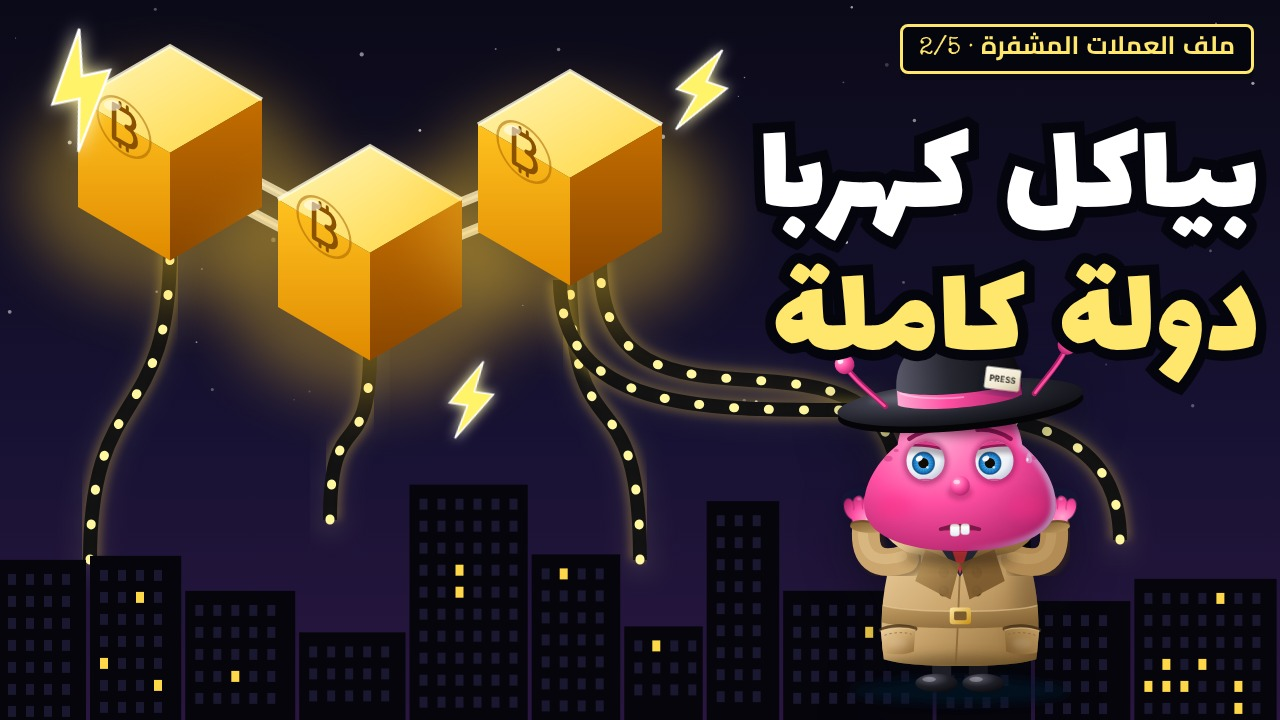
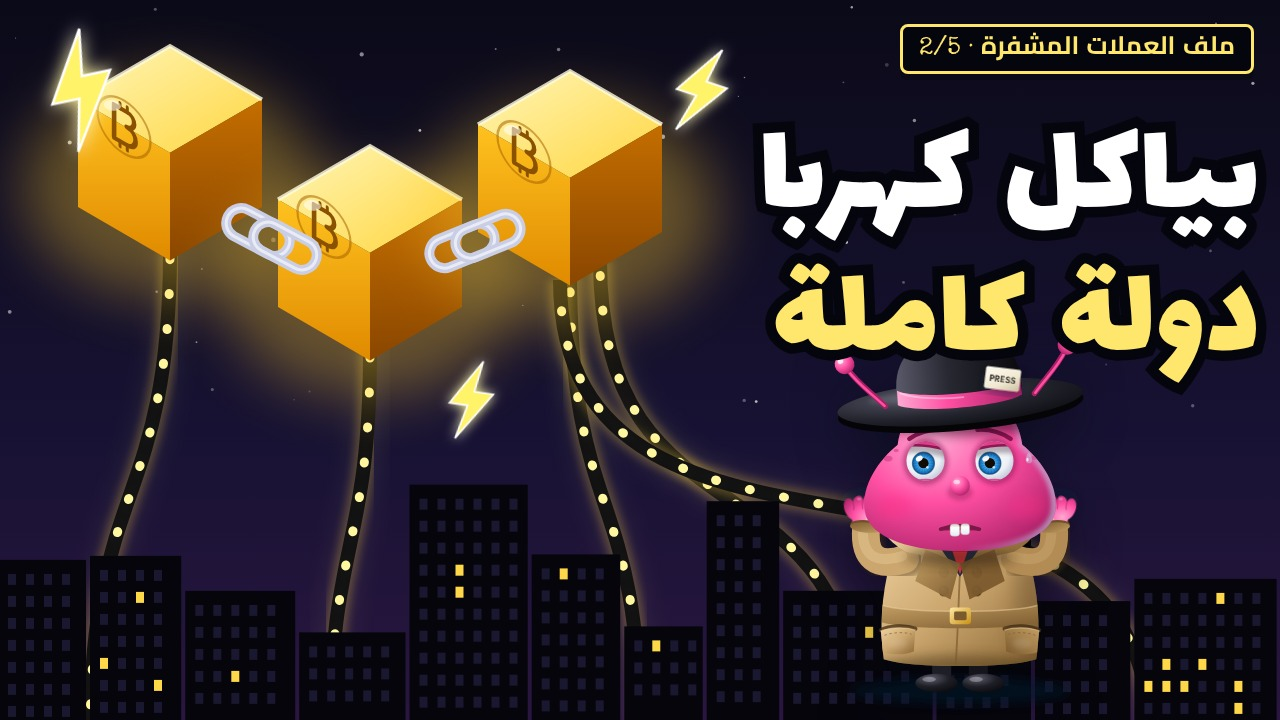
Thumbnails: polish the blackout and landfill scenes, the palm-tower pose; document illustrated thumbnail specs
Claude-Session: https://claude.ai/code/session_01Ey97noZGjdLSTjFu7eY9Zo

diff --git a/video/youtube/scenes.js b/video/youtube/scenes.js
@@ -84,10 +84,10 @@ export const SCENES = {
       return `<path d="${d}" fill="none" stroke="#ffcc33" stroke-width="22" opacity=".25" filter="url(#b4)"/><path d="${d}" fill="none" stroke="#05050a" stroke-width="14"/><path d="${d}" fill="none" stroke="#fff6a0" stroke-width="9" stroke-linecap="round" stroke-dasharray="1 34" filter="url(#glow)"/>`; };
     const bolt = (x, y, s, r) => `<path transform="translate(${x} ${y}) rotate(${r}) scale(${s})" d="M20 -100L-50 14H-4L-24 100L56 -22H8Z" fill="#fff36b" stroke="#fff" stroke-width="4" filter="url(#glow)"/>`;
     const back = `<rect width="1280" height="720" fill="url(#night)"/>${Array.from({ length: 60 }, () => `<circle cx="${f(R() * 1280)}" cy="${f(R() * 420)}" r="${f(R() * 1.8 + 0.5)}" fill="#fff" opacity="${f(R() * 0.6 + 0.2)}"/>`).join("")}
-      ${wire(170, 250, 90, 560, 180)}${wire(370, 350, 330, 520, 120)}${wire(570, 270, 640, 560, 200)}${wire(600, 260, 900, 500, 220)}${wire(560, 280, 1120, 540, 260)}
+      ${wire(170, 250, 90, 740, 260)}${wire(370, 350, 330, 740, 200)}${wire(570, 270, 640, 740, 260)}${wire(600, 260, 860, 740, 300)}${wire(560, 280, 1150, 740, 360)}
       ${city}${wins}
-      ${link(270, 205, 28)}${link(470, 215, -22)}
       ${blocks.map(([x, y]) => cube(x, y, 92)).join("")}
+      ${link(258, 232, 28)}${link(285, 246, 28)}${link(462, 246, -22)}${link(488, 236, -22)}
       ${bolt(80, 90, 0.6, -12)}${bolt(700, 90, 0.45, 18)}${bolt(470, 400, 0.4, 8)}`;
     return { defs, back };
   },
@@ -116,7 +116,7 @@ export const SCENES = {
     const back = `<rect width="1280" height="720" fill="url(#dusk)"/><circle cx="380" cy="430" r="90" fill="#fff0b0" opacity=".6" filter="url(#b30)"/>
       ${gull(300, 120, 1.2)}${gull(380, 90, 0.8)}${gull(700, 150, 1)}${gull(240, 200, 0.7)}
       <path d="${hill}" fill="url(#hill)"/>${trash}
-      <circle cx="${D.x}" cy="${D.y}" r="260" fill="url(#treas)"/>${rays(D.x, D.y, 14, "#fff2a8", 0.18, 420, 0.1)}
+      <clipPath id="up3"><rect width="1280" height="${D.y + 20}"/></clipPath><g clip-path="url(#up3)">${rays(D.x, D.y, 14, "#fff2a8", 0.22, 520, 0.1)}</g><circle cx="${D.x}" cy="${D.y}" r="230" fill="url(#treas)"/>
       <g transform="translate(${D.x} ${D.y}) rotate(-18)" filter="url(#sh)"><rect x="-96" y="-62" width="192" height="124" rx="12" fill="url(#drv)"/><circle cx="-14" cy="-4" r="44" fill="#d9dfee" stroke="#8f96b8" stroke-width="4"/><circle cx="-14" cy="-4" r="9" fill="#8f96b8"/><path d="M52 44L14 12" stroke="#4d5478" stroke-width="9" stroke-linecap="round"/><rect x="48" y="30" width="30" height="16" rx="4" fill="#58d68d"/></g>
       ${coin(560, 380, 34, -20)}${coin(735, 400, 30, 22)}${coin(690, 330, 24, 8)}`;
     return { defs, back };

diff --git a/video/README.md b/video/README.md
@@ -504,3 +504,15 @@ lists its sources by hand in `youtube.sources`.
 A thumbnail spec is a tag, a two-line headline (`[[words]]` in yellow), an
 optional line under it, the host's `emote` and `gesture`, and `icons`: any of
 the boards' icons, placed in 1280 x 720 units.
+
+An illustrated thumbnail names `"page": "scene.html"` and a `scene` from
+`youtube/scenes.js` (a drawing of the episode's strongest image, tuned by
+`opts`). The host is placed with `host` (or `hosts`, several): `emote`,
+`gesture`, `x` (centre of his 1200 box) and `y` (its top), `size`, `rot`,
+`look`, an optional CSS `mask` or `clip`, and `layer: "top"` to draw him over
+the scene's front (a cart he sits in, a grave he hides behind). `words` are
+blocks of text at `x`, `y`, `w`, `size`, with `[[words]]` in the `hi` colour.
+Scenes hold no words, so another language changes only the spec. Keep text
+and faces out of the bottom-right corner, where YouTube shows the duration,
+and check every thumbnail at 320 x 180. `node youtube.cjs art <specs> <out>
+thumbnail-b` renders only the specs whose file contains `thumbnail-b`.
